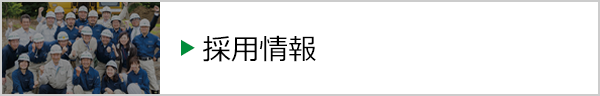
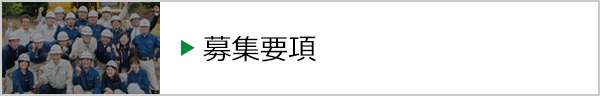
ボタン画像を更新。

Changed region(s): [[0.33, 0.375, 0.54, 0.6562]]

diff --git a/htdocs/share/include/recruitList.html b/htdocs/share/include/recruitList.html
@@ -1,0 +1,7 @@
+<div class="worksList">
+	<h3 class="worksList__title">実績紹介</h3>
+	<ul class="recruitNav">
+		<li class="attemptNav__item"><a href="../../recruit/" class="recruitNav__link recruitNav__link--01">募集要項</a></li>
+		<li class="attemptNav__item"><a href="../../recruit/interview/" class="recruitNav__link recruitNav__link--02">社員インタビュー</a></li>
+	</ul>
+</div>

diff --git a/htdocs/share/include/recruitList-top.html b/htdocs/share/include/recruitList-top.html
@@ -1,0 +1,7 @@
+<div class="worksList">
+	<h3 class="worksList__title">実績紹介</h3>
+	<ul class="recruitNav">
+		<li class="attemptNav__item"><a href="../recruit/" class="recruitNav__link recruitNav__link--01">募集要項</a></li>
+		<li class="attemptNav__item"><a href="interview/" class="recruitNav__link recruitNav__link--02">社員インタビュー</a></li>
+	</ul>
+</div>
